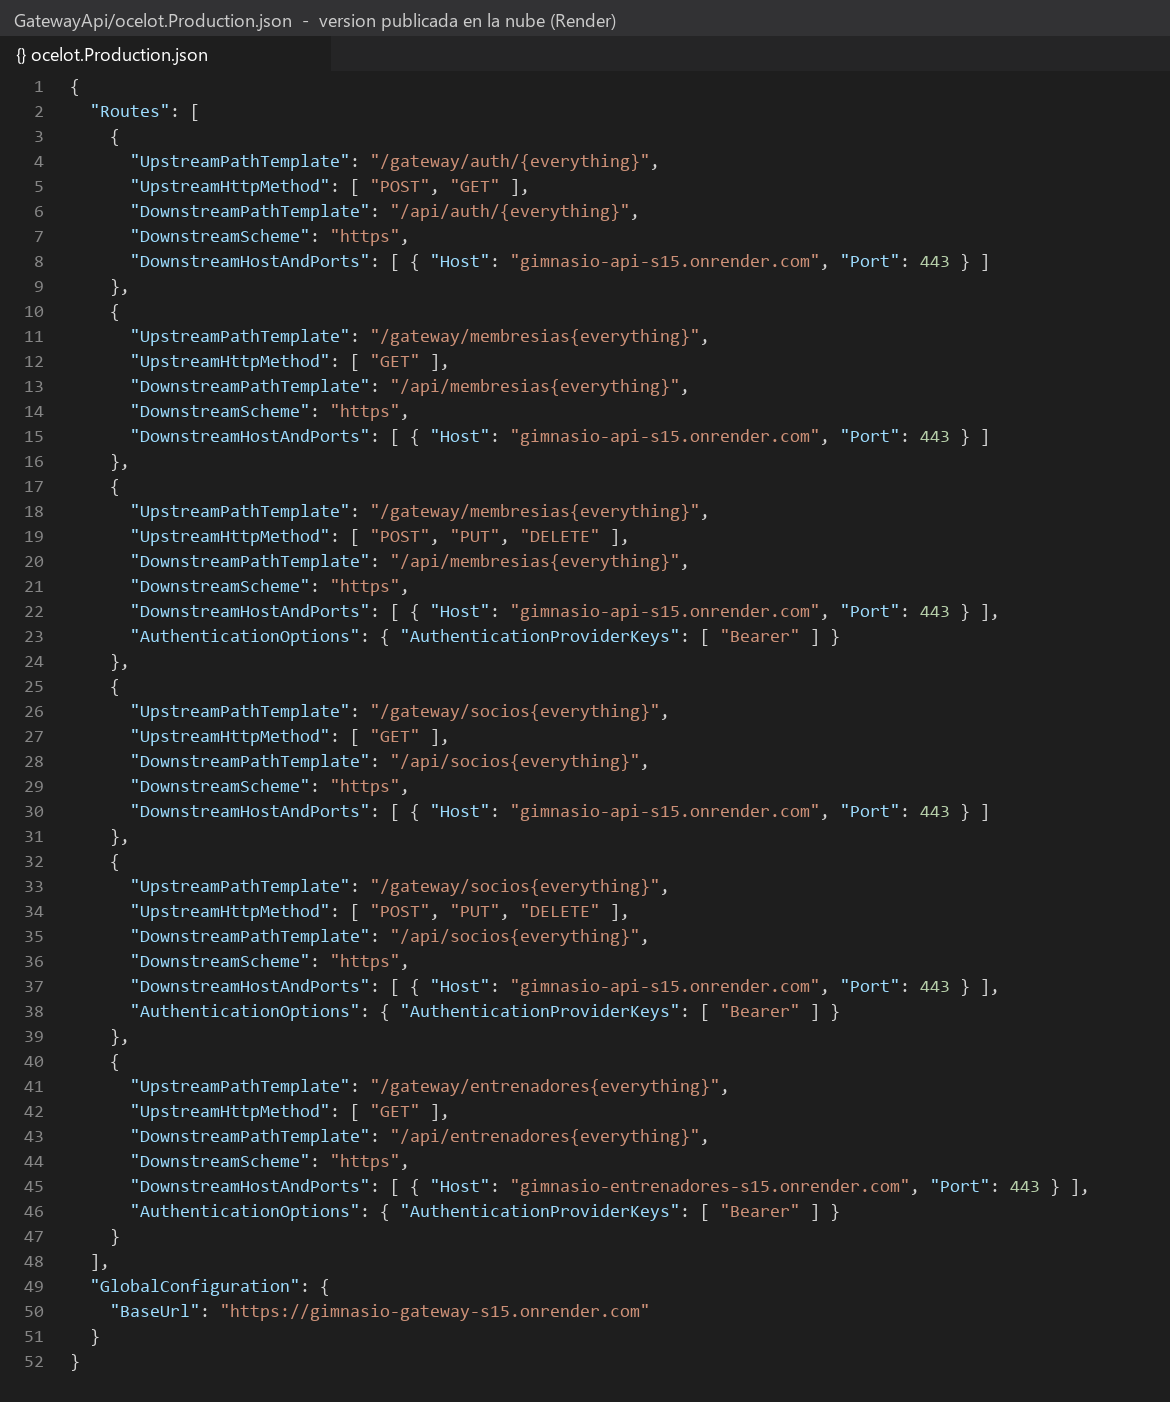
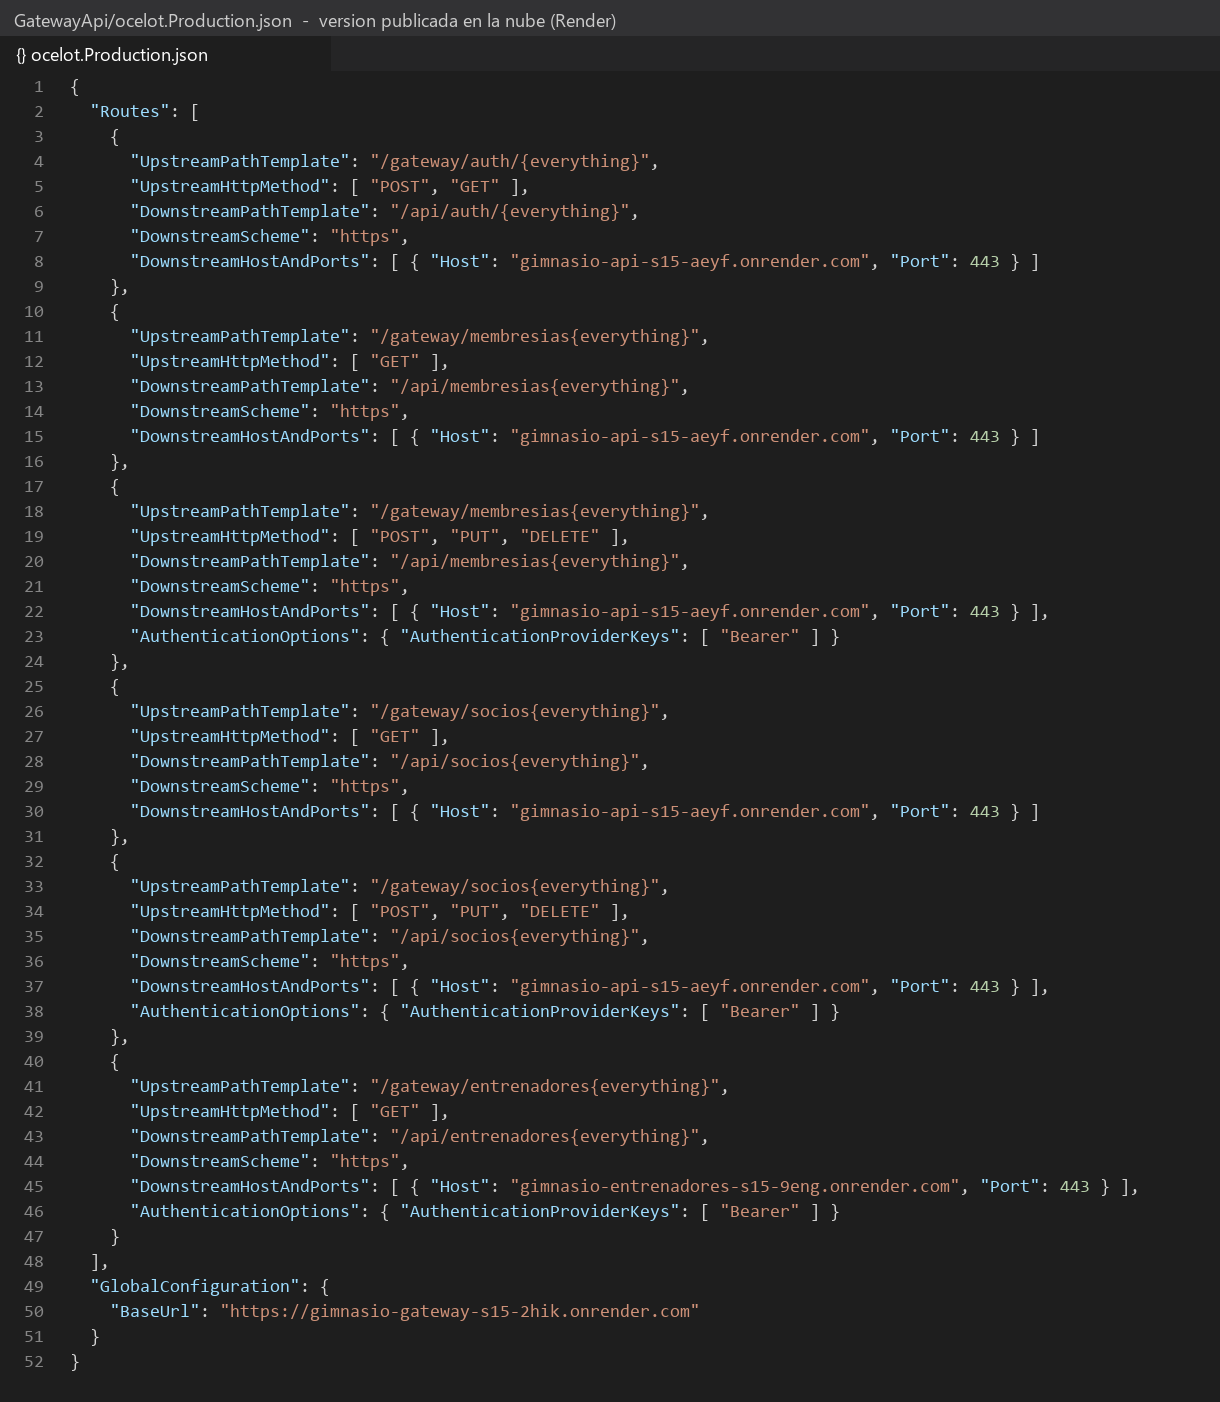
Evidencias de las pruebas en la nube y direcciones publicadas

diff --git a/README.md b/README.md
@@ -168,3 +168,10 @@ Las 22 pruebas por el gateway (200, 201, 204, 401, 403, 404 y 502) estan en `Gat
 - **Hosting:** Render, tres Web Services gratuitos con Docker (`render.yaml` y un `Dockerfile` por servicio). La clave JWT se genera en el grupo de variables `jwt-gimnasio` y la comparten los tres.
 - **Base de datos:** SQL Server gratuito en MonsterASP.NET. Se crea con `Database/GimnasioDB_Nube.sql` (igual al script local, sin `CREATE DATABASE`).
 - **Secretos:** `ConnectionStrings__GimnasioDB` y `Jwt__SecretKey` son variables de entorno en Render; no estan en el repositorio.
+### Direcciones publicadas
+
+- Gateway: https://gimnasio-gateway-s15-2hik.onrender.com/gateway/...
+- Microservicio 1 (Gimnasio.Api): https://gimnasio-api-s15-aeyf.onrender.com
+- Microservicio 2 (EntrenadoresApi): https://gimnasio-entrenadores-s15-9eng.onrender.com
+
+En el plan gratuito de Render el primer request despues de un rato sin uso puede tardar cerca de un minuto. Al suspender un servicio en Render, su proxy responde 503 y el gateway reenvia ese codigo; el 502 de Ocelot se ve en local al detener el proceso.
